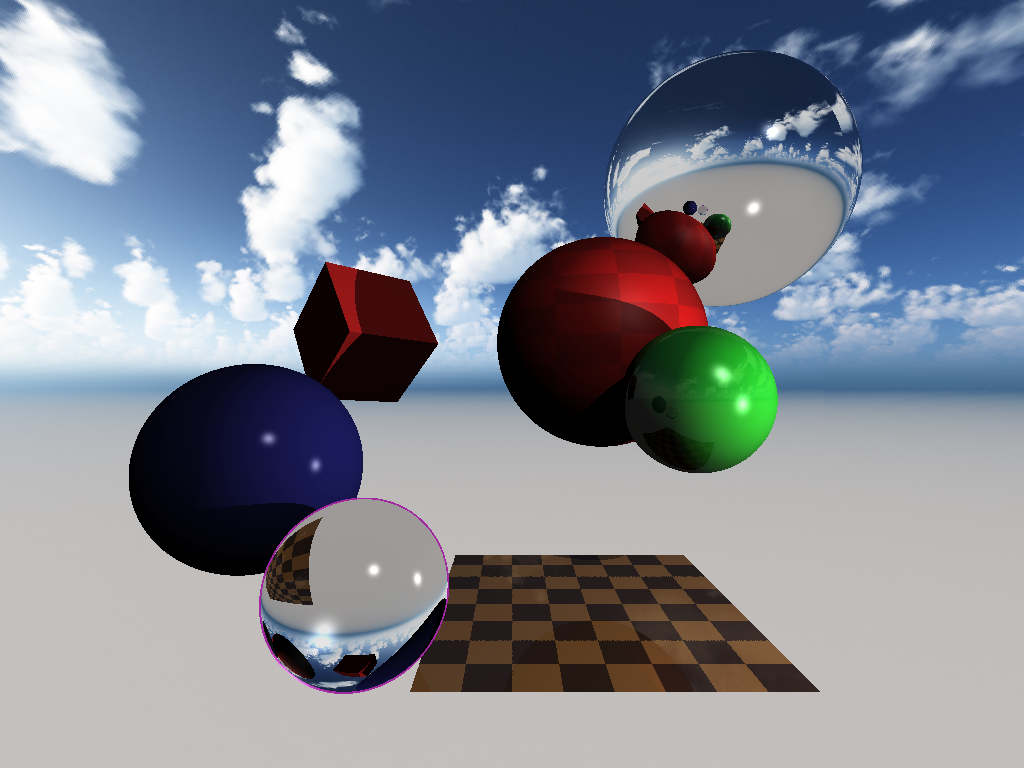
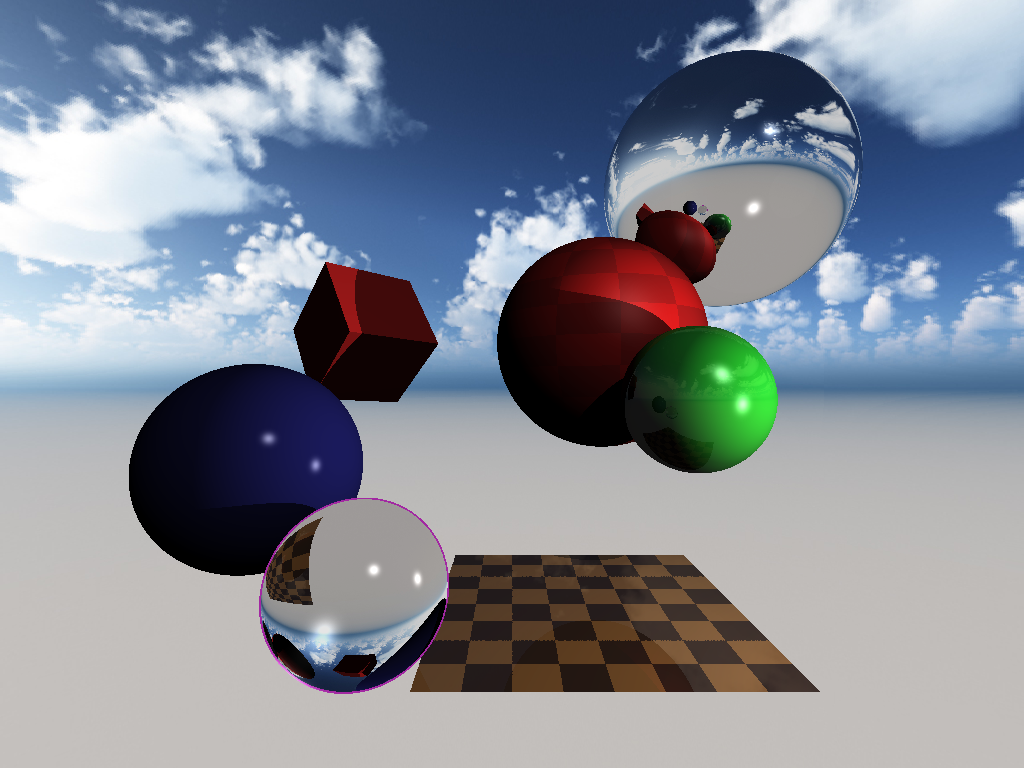
Fix how texture coordinates calculated for sphers

Changed region(s): [[0.0, 0.0, 1.0, 0.5], [0.25, 0.8125, 0.4062, 0.9062], [0.5938, 0.125, 0.625, 0.1562]]

diff --git a/src/scene/sphere.rs b/src/scene/sphere.rs
@@ -1,3 +1,5 @@
+use core::f32;
+
 use crate::vector_math::Vec3;
 
 use super::Surface;
@@ -11,12 +13,20 @@ pub struct Sphere {
 
 fn get_texture_coords(origin: &Vec3, point_on_sphere: &Vec3) -> (f32, f32) {
     let origin_to_point = (*point_on_sphere - *origin).normalize();
-    const X0: Vec3 = Vec3::new(-1.0, 0.0, 0.0);
-    const FORWARD: Vec3 = Vec3::new(0.0, 0.0, -1.0);
-    let mut x = (origin_to_point * X0 * -1.0 + 1.0) / 4.0; //mapping cos to 0..0.5 from 1..-1
-    if origin_to_point * FORWARD < 0.0 {
-        x = 1.0 - x;
-    }
+    const X: Vec3 = Vec3::new(1.0, 0.0, 0.0);
+    const Z: Vec3 = Vec3::new(0.0, 0.0, 1.0);
+    let x = origin_to_point * X;
+    let z = origin_to_point * Z;
+    let x = if x == 0.0 && z == 0.0 {
+        0.0
+    } else {
+        let xz = Vec3::new(x, 0.0, z).normalize();
+        let mut x = ((xz * X + 1.0) - f32::EPSILON) / 4.0; //mapping to 0..0.5 from 1..-1
+        if xz * Z < 0.0 {
+            x = 1.0 - x;
+        }
+        x
+    };
 
     const UP: Vec3 = Vec3::new(0.0, 1.0, 0.0);
     let y = (origin_to_point * UP * -1.0 + 1.0) / 2.0; //mapping to 0..1 from 1..-1
@@ -59,6 +69,7 @@ impl Surface for Sphere {
 #[cfg(test)]
 mod test {
     use super::*;
+    use crate::common::test::*;
 
     #[test]
     fn ray_intersects_test() {
@@ -98,5 +109,22 @@ mod test {
             .unwrap();
 
         assert_eq!(distance, 1.0);
+    }
+
+    const ORIGIN: Vec3 = Vec3::new(0.0, 0.0, 0.0);
+
+    #[test]
+    fn texture_coord_top_left() {
+        let coords = get_texture_coords(&ORIGIN, &Vec3::new(0.0, 1.0, 0.0));
+
+        assert_eq!((0.0, 0.0), coords);
+    }
+
+    #[test]
+    fn texture_coord_bottom_right() {
+        let point_on_sphere = Vec3::new(-0.1, -1.0, -0.001).normalize();
+        let (x, y) = get_texture_coords(&ORIGIN, &point_on_sphere);
+
+        assert_eq!((1.0, 1.0), (cap_float(x), cap_float(y)));
     }
 }
